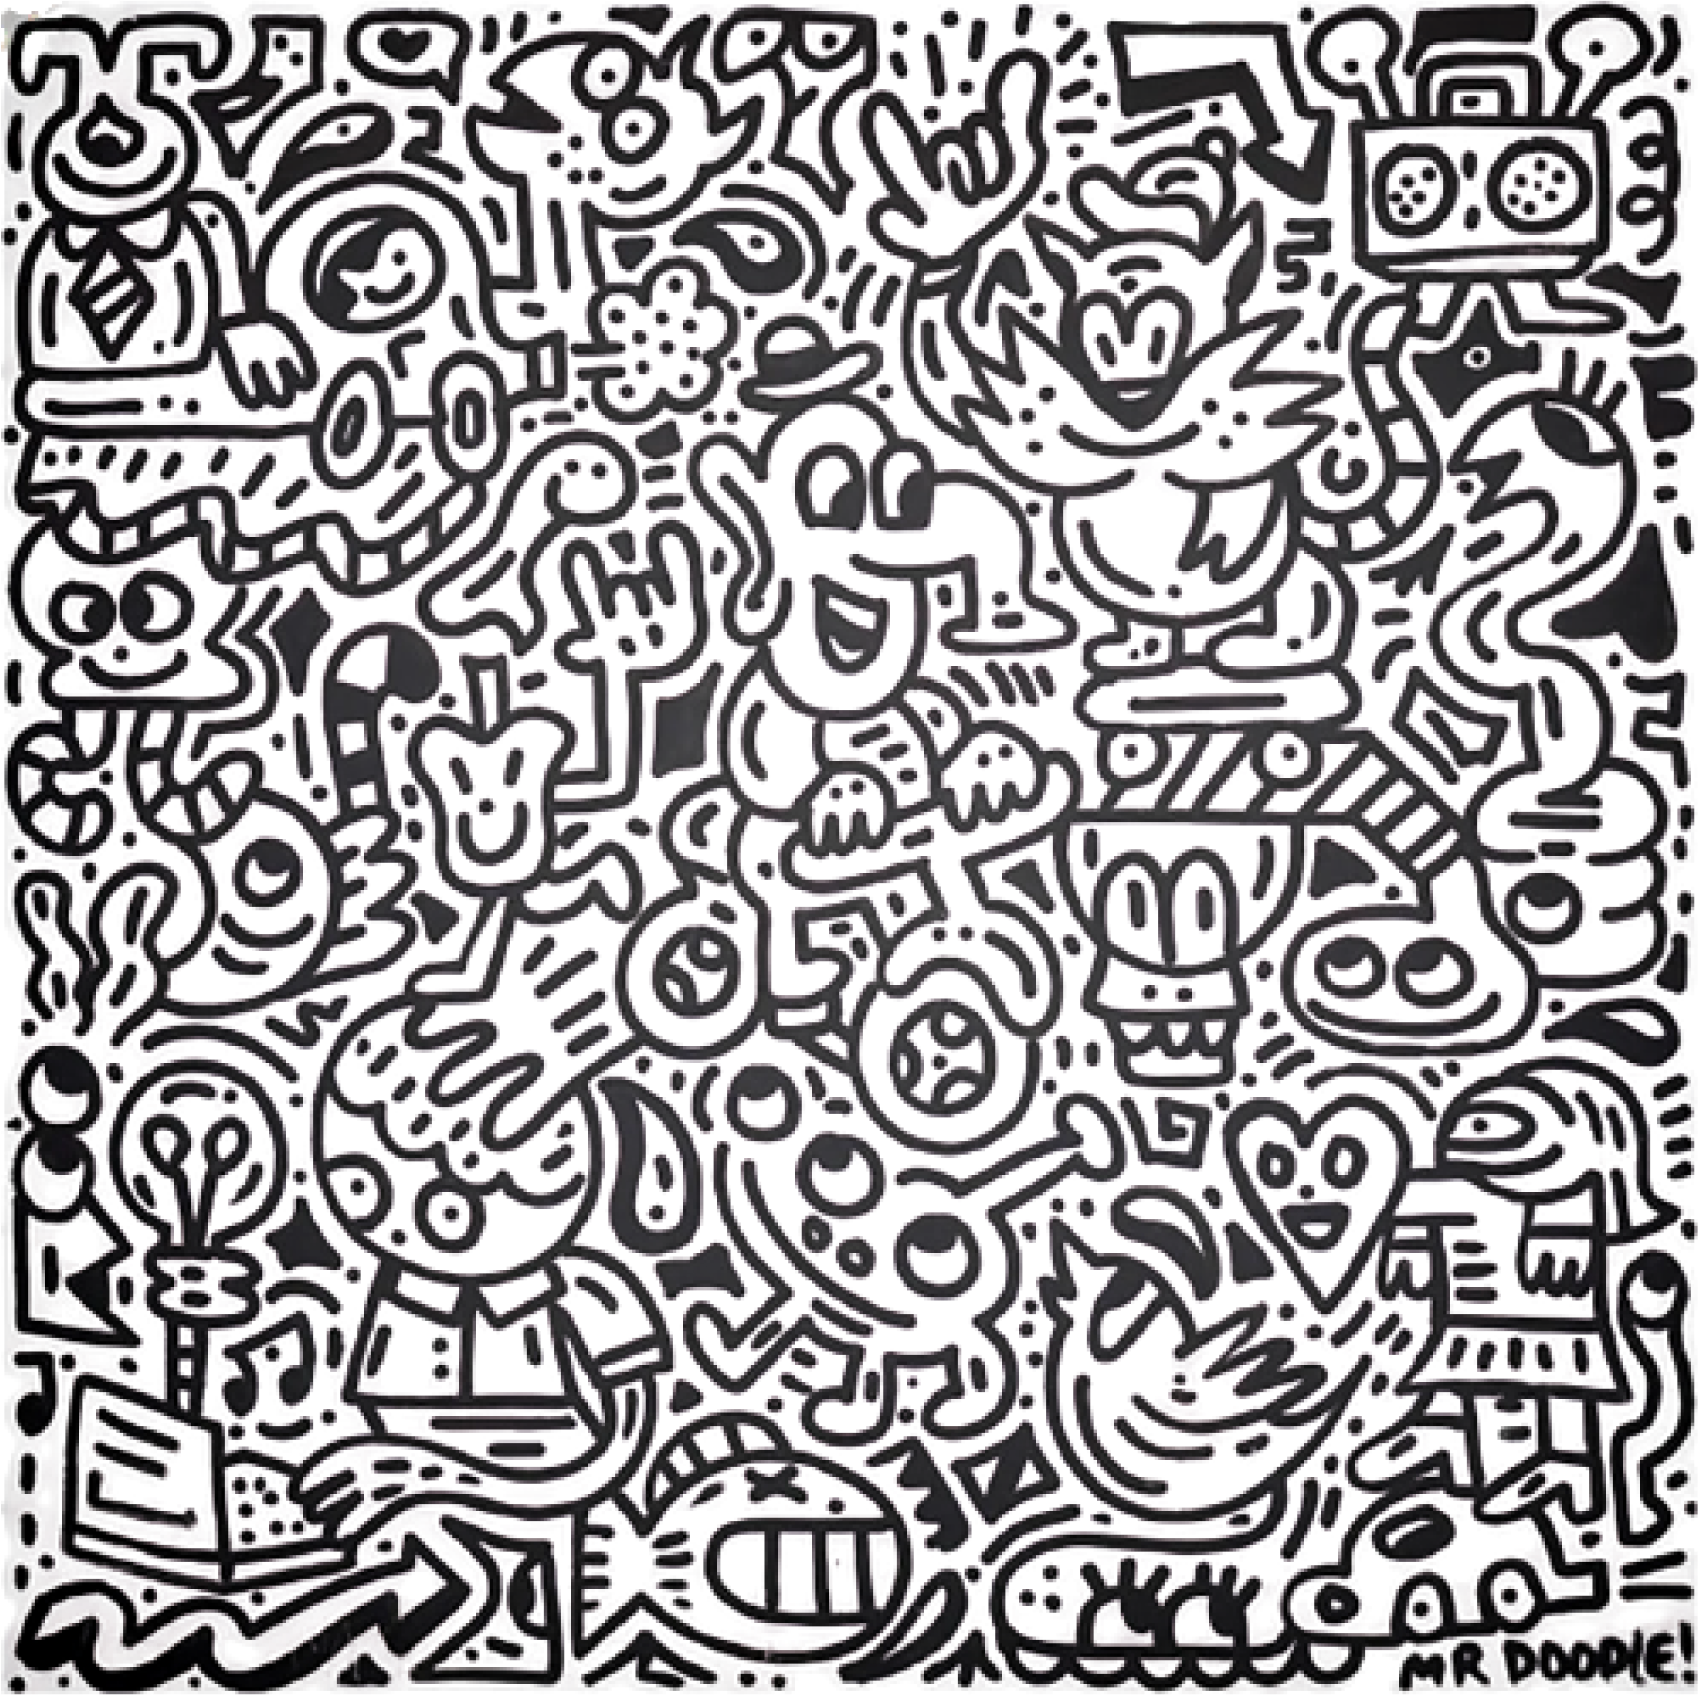
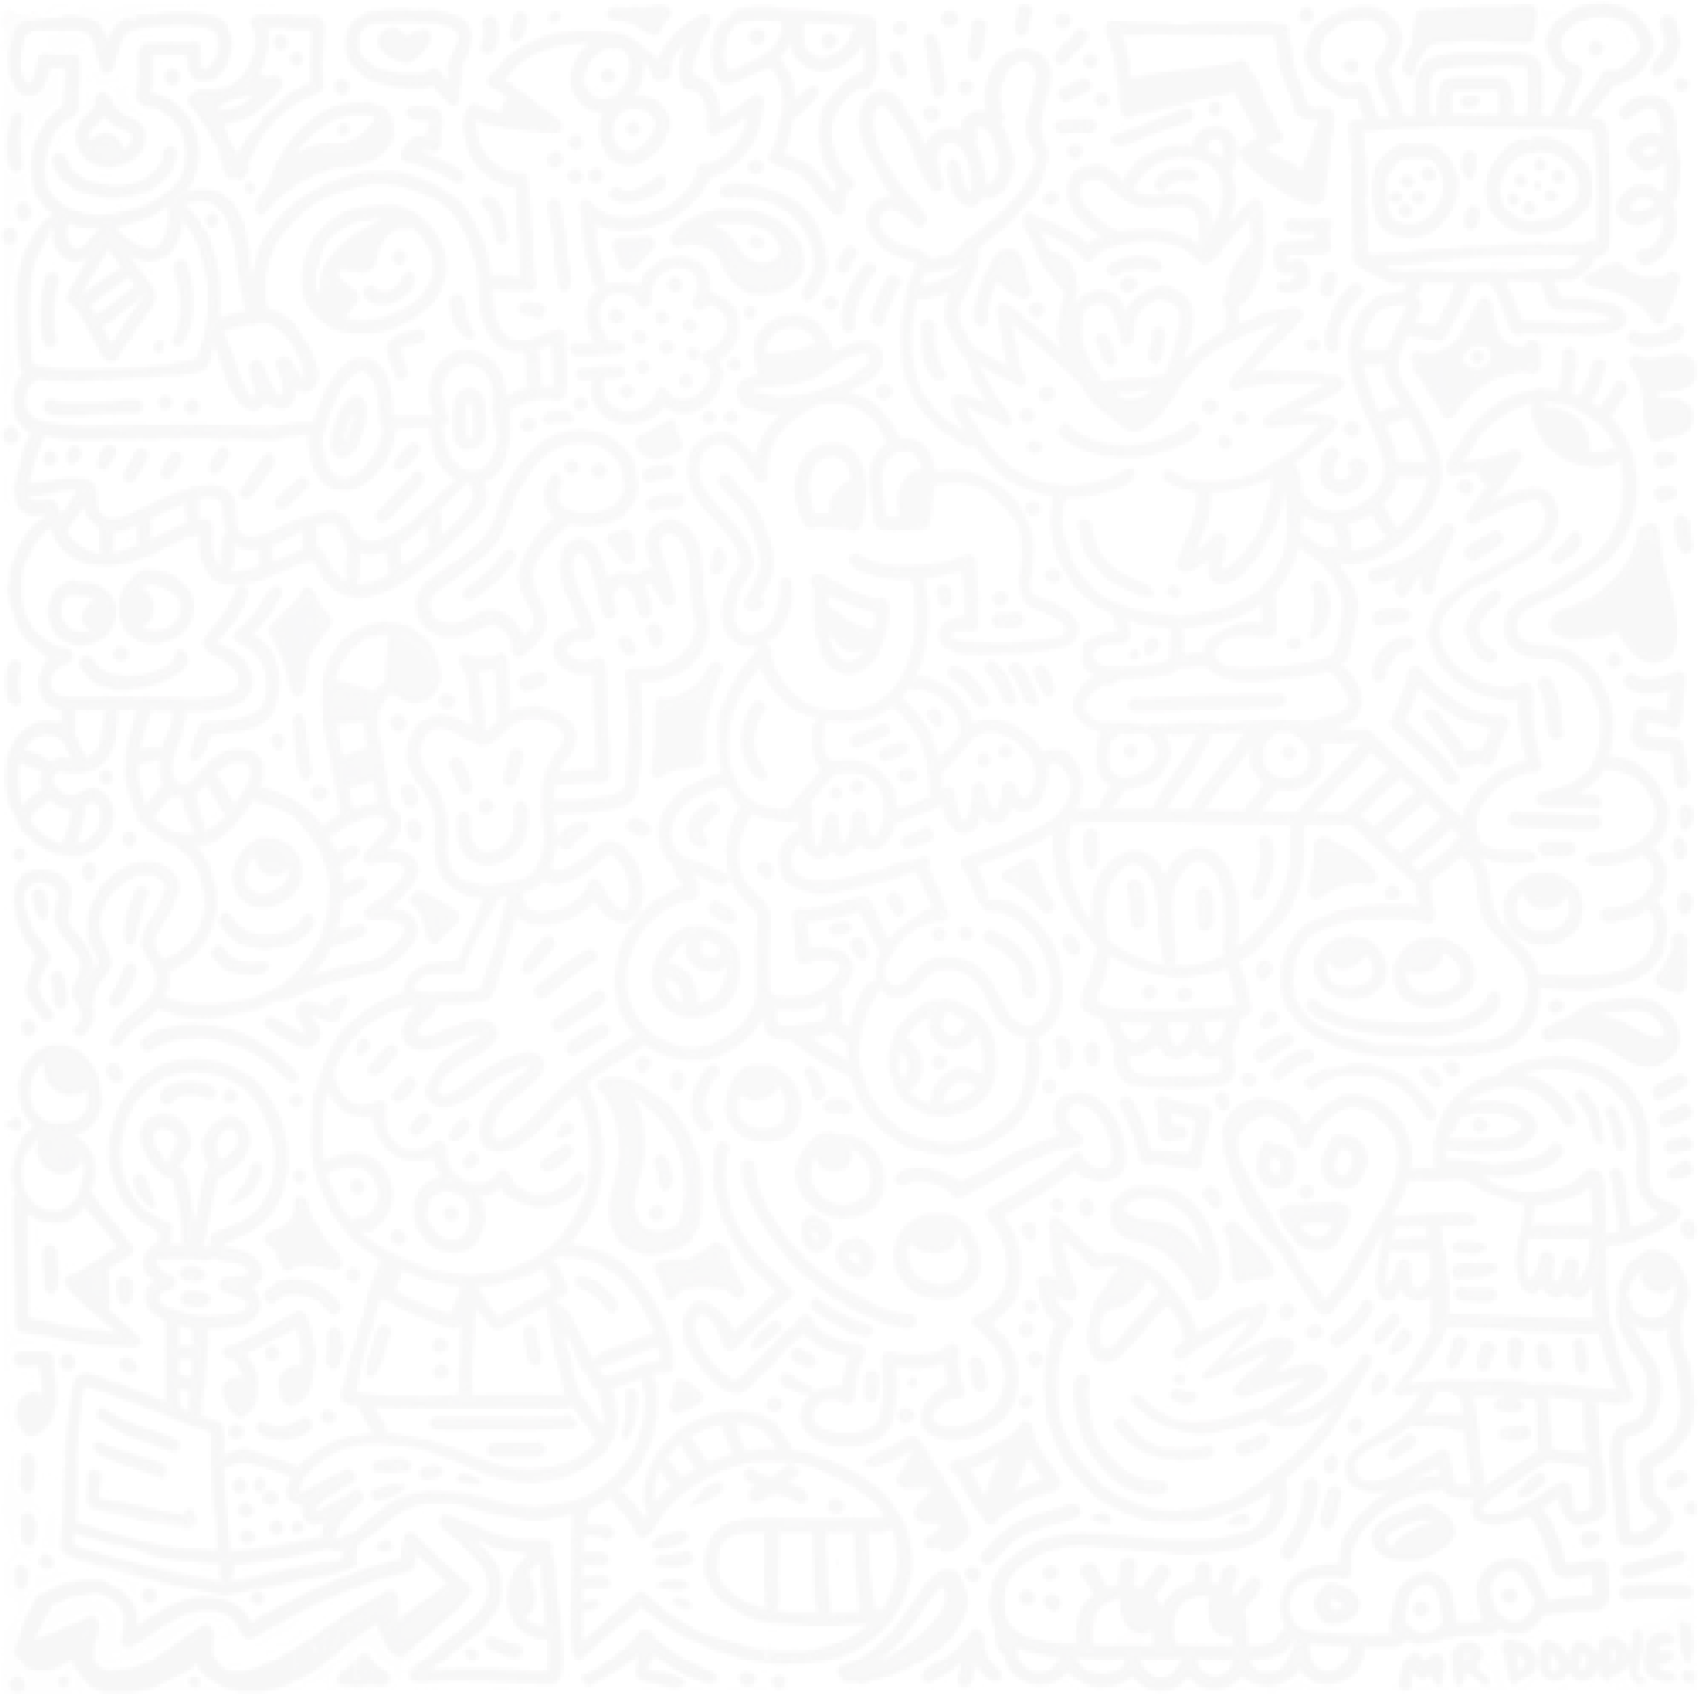
Luciano svg added to the scene
basic clipping in place - it consists of two instances of the same svg with different text colors assigned to it - it may work, not sure

diff --git a/src/App.jsx b/src/App.jsx
@@ -5,14 +5,89 @@ export default function App() {
   // closed [0_50%_0_50%]
 
   return (
-    <main className="bg-palette-white h-screen w-screen">
-      <div
-        id="background-doodles"
-        className="fixed h-screen w-screen bg-doodle-pattern opacity-[3%] bg-cover bg-repeat "
-      ></div>
+    <main className="bg-palette-white h-screen w-screen bg-doodle-pattern bg-cover">
+      {/* 🏔 Mountain Clip */}
+      <div className="z-50 absolute bg-mountain-dark bg-cover h-full w-full clip-path-inset-[0_40%_0_40%] transition-[clip-path]">
+        <section className="flex h-full justify-center place-items-center">
+          {/* 🖌 Luciano */}
+          <svg
+            width="525"
+            height="139"
+            viewBox="0 0 525 139"
+            fill="none"
+            className="text-palette-white"
+            xmlns="http://www.w3.org/2000/svg"
+          >
+            <g>
+              <path
+                d="M288.123 56.1423C289.27 53.3019 289.34 53.1869 290.96 51.0073"
+                stroke="currentColor"
+                stroke-width="12"
+                stroke-linecap="round"
+                stroke-linejoin="round"
+              />
+              <path
+                d="M134.869 99.1439C133.907 109.397 133.674 116.445 140.281 119.806C146.888 123.166 163.213 118.069 168.777 73.1664C165.899 90.5645 164.354 125.185 177.249 119.966C190.144 114.746 200.674 84.37 203.936 71.3215C199.715 88.9753 193.655 125.639 203.786 119.806C216.451 112.514 222.24 79.9297 248.771 70.0829C216.328 87.9812 218.689 118.277 234.04 119.966C246.61 121.348 263.817 113.423 276.166 81.0909C272.008 100.152 277.005 128.81 290.36 118.525C303.716 108.24 311.296 95.09 314.11 84.6M314.11 84.6C311.04 104.429 320.198 130.824 337.392 117.008M314.11 84.6C343.038 47.9236 357.924 99.1619 337.392 117.008M337.392 117.008C350.42 106.538 365.355 73.9342 373.798 74.0877C382.241 74.2413 377.592 130.113 381.872 119.495C388.861 102.158 403.631 73.0777 413.456 72.1566C425.737 71.0052 409.051 125.138 418.262 120.34C427.472 115.543 442.916 96.2924 445.794 89.7681C441.061 106.207 449.317 122.611 463.766 120.34C490.63 116.119 498.787 65.5986 471.539 70.012C444.291 74.4255 445.736 102.549 467.414 94.1316C489.092 85.7141 506.481 68.1867 510.774 51.0073"
+                stroke="currentColor"
+                stroke-width="12"
+                stroke-linecap="round"
+                stroke-linejoin="round"
+              />
+              <path
+                d="M14.9424 36.8655C29.0126 47.8098 49.9041 50.7969 66.3116 40.7673C75.1078 35.3904 87.7337 16.3964 73.5375 11.4734C59.3102 6.53959 51.0035 21.1091 54.6044 34.3421C60.1005 54.5394 82.3301 74.811 75.3432 97.4929C74.0705 101.624 69.7662 113.121 55.6696 118.376C41.1354 123.795 26.8516 109.081 37.8477 96.3983C49.1406 83.3729 62.9774 92.8008 69.7662 97.47C73.0701 99.7423 81.9729 114.922 91.2002 118.376C108.232 124.752 126.152 111.247 130.946 96.3983C142.406 60.9079 128.882 36.0085 106.441 54.7514"
+                stroke="currentColor"
+                stroke-width="12"
+                stroke-linecap="round"
+                stroke-linejoin="round"
+              />
+            </g>
+          </svg>
+        </section>
+      </div>
 
-      {/* FIXME: h-full is with a 1px gap in the bottom - Possible solution: h-[calc(100vh+2px)] and overflow-hidden in its parent*/}
-      <div className="bg-mountain-dark bg-cover h-full clip-path-inset-[0_40%_0_40%] transition-[clip-path] "></div>
+      {/* 🐶 Doggo Logo */}
+      <div className="absolute top-4 lg:top-[3vh] lg:left-[47.5%] lg:right-[47.5%] h-[56px] w-[56px] lg:w-[5vw] lg:h-[5vw] rounded-full bg-palette-yellow">
+        <img
+          src="src\assets\doggo.png"
+          className="w-[5vw] absolute top-[1.5vh]"
+        ></img>
+      </div>
+
+      <section className="flex h-full justify-center place-items-center">
+        {/* 🖌 Luciano */}
+        <svg
+          width="525"
+          height="139"
+          viewBox="0 0 525 139"
+          fill="none"
+          className="text-palette-green"
+          xmlns="http://www.w3.org/2000/svg"
+        >
+          <g>
+            <path
+              d="M288.123 56.1423C289.27 53.3019 289.34 53.1869 290.96 51.0073"
+              stroke="currentColor"
+              stroke-width="12"
+              stroke-linecap="round"
+              stroke-linejoin="round"
+            />
+            <path
+              d="M134.869 99.1439C133.907 109.397 133.674 116.445 140.281 119.806C146.888 123.166 163.213 118.069 168.777 73.1664C165.899 90.5645 164.354 125.185 177.249 119.966C190.144 114.746 200.674 84.37 203.936 71.3215C199.715 88.9753 193.655 125.639 203.786 119.806C216.451 112.514 222.24 79.9297 248.771 70.0829C216.328 87.9812 218.689 118.277 234.04 119.966C246.61 121.348 263.817 113.423 276.166 81.0909C272.008 100.152 277.005 128.81 290.36 118.525C303.716 108.24 311.296 95.09 314.11 84.6M314.11 84.6C311.04 104.429 320.198 130.824 337.392 117.008M314.11 84.6C343.038 47.9236 357.924 99.1619 337.392 117.008M337.392 117.008C350.42 106.538 365.355 73.9342 373.798 74.0877C382.241 74.2413 377.592 130.113 381.872 119.495C388.861 102.158 403.631 73.0777 413.456 72.1566C425.737 71.0052 409.051 125.138 418.262 120.34C427.472 115.543 442.916 96.2924 445.794 89.7681C441.061 106.207 449.317 122.611 463.766 120.34C490.63 116.119 498.787 65.5986 471.539 70.012C444.291 74.4255 445.736 102.549 467.414 94.1316C489.092 85.7141 506.481 68.1867 510.774 51.0073"
+              stroke="currentColor"
+              stroke-width="12"
+              stroke-linecap="round"
+              stroke-linejoin="round"
+            />
+            <path
+              d="M14.9424 36.8655C29.0126 47.8098 49.9041 50.7969 66.3116 40.7673C75.1078 35.3904 87.7337 16.3964 73.5375 11.4734C59.3102 6.53959 51.0035 21.1091 54.6044 34.3421C60.1005 54.5394 82.3301 74.811 75.3432 97.4929C74.0705 101.624 69.7662 113.121 55.6696 118.376C41.1354 123.795 26.8516 109.081 37.8477 96.3983C49.1406 83.3729 62.9774 92.8008 69.7662 97.47C73.0701 99.7423 81.9729 114.922 91.2002 118.376C108.232 124.752 126.152 111.247 130.946 96.3983C142.406 60.9079 128.882 36.0085 106.441 54.7514"
+              stroke="currentColor"
+              stroke-width="12"
+              stroke-linecap="round"
+              stroke-linejoin="round"
+            />
+          </g>
+        </svg>
+      </section>
     </main>
   );
 }
